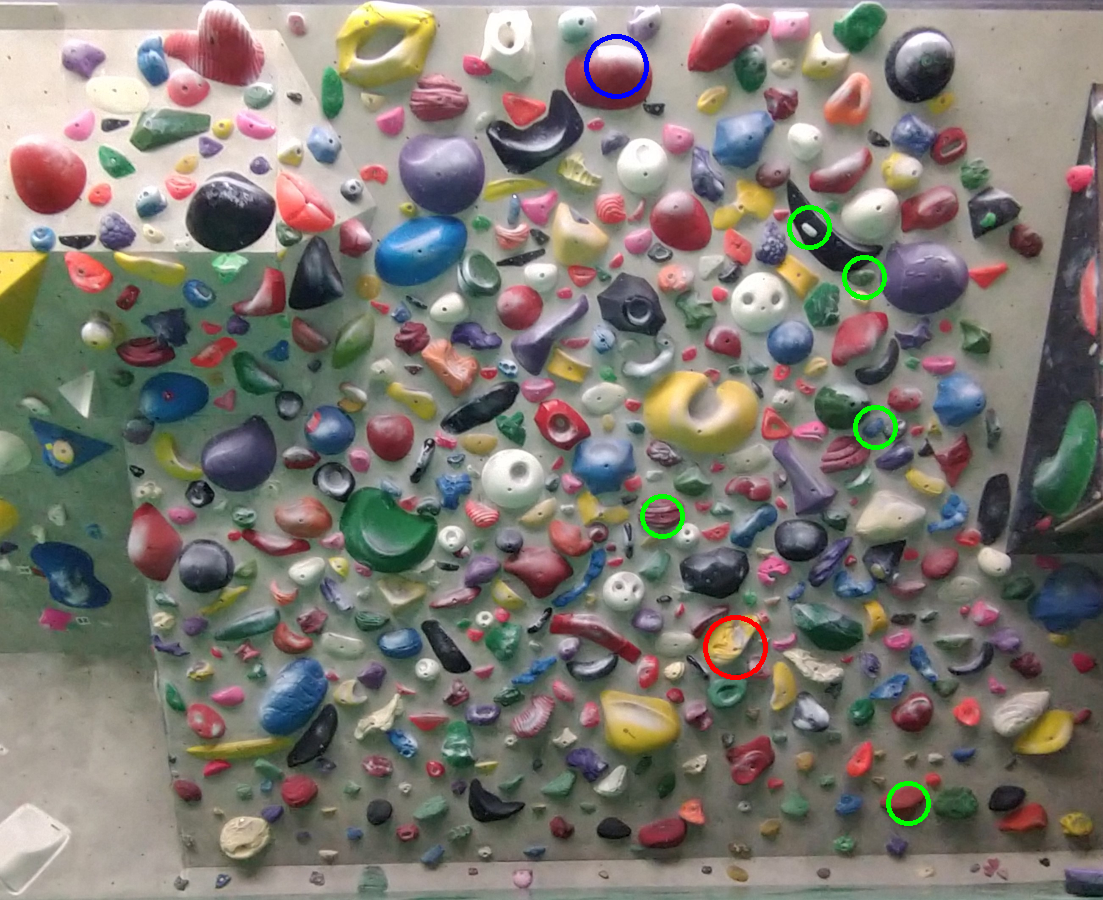
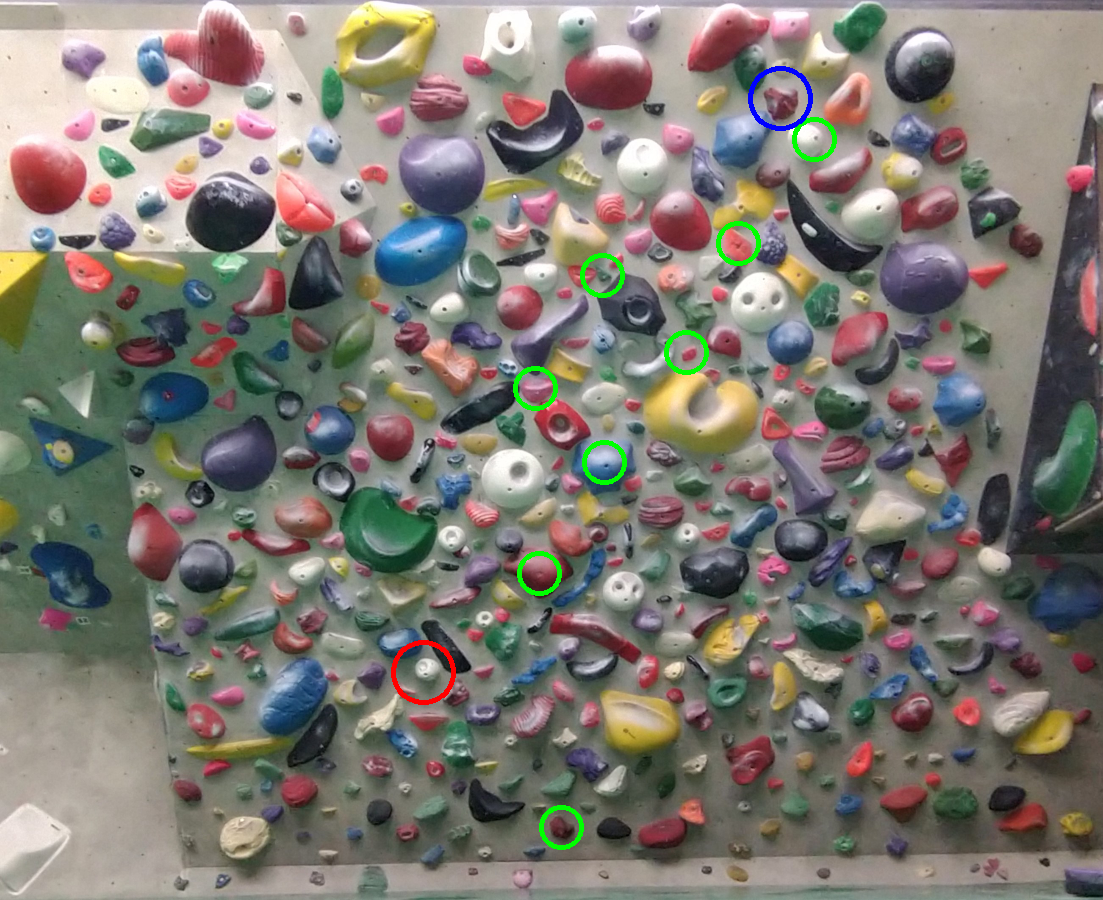
add_easy

diff --git a/app/templates/app/top.html b/app/templates/app/top.html
@@ -11,14 +11,17 @@
   </head>
   <body>
     <h1 class="center">Project maker</h1>
-    <p>※当サイトは利用客である投稿主が個人的に製作したものであり、<br>
-      avue様の運営とは一切関係がありません。
-    </p>
+    <p>※当サイトは利用客である投稿主が個人的に製作したものであり、avue様の運営とは一切関係がありません。</p>
     <br>
     <p><font size="5">
       {% comment %} <a href="http://127.0.0.1:8000/avue">avue spray wall</a> {% endcomment %}
       <a href="https://avue-project-maker.onrender.com/avue">avue spray wall</a>
     </font></p>
+    <p><font size="5">
+      {% comment %} <a href="http://127.0.0.1:8000/avue">avue spray wall</a> {% endcomment %}
+      <a href="https://avue-project-maker.onrender.com/avue_easy">avue spray wall easy</a>
+    </font></p>
+    <br>
     <p><font size="5">
       {% comment %} <a href="http://127.0.0.1:8000/private">private wall</a> {% endcomment %}
       <a href="https://avue-project-maker.onrender.com/private">private wall</a>

diff --git a/app/function_easy.py b/app/function_easy.py
@@ -1,0 +1,110 @@
+#import
+import random
+from pathlib import Path
+import cv2
+import pandas as pd
+from . import param as prm
+
+prj_path = Path(__file__).resolve().parent
+
+#関数宣言
+#ボルトリストの作成 [[num,x,y],[num,x,y],...]
+def make_list(filename,name):
+    list_csv = pd.read_csv(filename,header=None).values.tolist()
+    
+    list_f = []
+    for i in range(prm.MAX_NUM(name)):
+        list_temp = [i]
+        list_temp.append(list_csv[i][0])
+        list_temp.append(list_csv[i][1])
+        list_f.append(list_temp)
+    return list_f
+
+
+#スタート足候補
+def start_foot_list(ret,input_list,name):
+    list_start_foot_f = []
+    for i in range(prm.MAX_NUM(name)):
+        if input_list[i][2] >= ret[0]:
+            list_start_foot_f.append(i)
+    return list_start_foot_f
+
+
+#ルートセット
+def route_set(input_sf,input_list,name):
+    list_route_f = [input_list[input_sf]]
+    reach = prm.REACH(name)
+    ret = prm.Border(name)
+    list_p = []
+    p = 0
+    k = 0
+    j = 0
+    while j <= prm.MAX_NUM(name):
+        j = j+1
+        for i in range(prm.MAX_NUM(name)):
+            h = input_list[i][2]-list_route_f[k][2]
+            if h <= 0:
+                h = h*(-1)
+                r = ((input_list[i][1]-list_route_f[k][1])**2 + h**2)**0.5
+                if r <= reach:
+                    ph = reach*0.3*2 - abs(h-reach*0.3)
+                    pr = reach*0.3*2 - abs(r-reach*0.3)
+                    p = p + ph*pr
+                    list_temp = [i,p]
+                    list_p.append(list_temp)
+        rd = random.random()
+        for l in range(len(list_p)):
+            q = (list_p[l][1])/p
+            if rd < q:      
+                list_route_f.append(input_list[list_p[l][0]])
+                k = k+1
+                p = 0
+                list_p = []
+                break
+        if list_route_f[k][2] <= ret[2]:
+            break
+    return list_route_f
+
+# 関数
+def make(name):
+    list = make_list(prj_path.joinpath('csv/'+name+'/hold_list.csv'),name)
+
+    list_start_foot = start_foot_list(prm.Border(name),list,name)
+
+    sf = random.choice(list_start_foot)
+
+    list_route = route_set(sf,list,name)
+    
+    return list_route    
+
+
+# 描画
+def print_prj(list_route,name):
+    img = cv2.imread(str(prj_path.joinpath('image/'+name+'/input.png')))
+    ret = prm.Border(name)
+
+    h, w, _ = img.shape
+    resize_rate = 900/h
+    wall = cv2.resize(img, (int(w*resize_rate), 900))
+
+    start_flag = 0
+    for i in range(len(list_route)-1):
+        x = list_route[i][1]
+        y = list_route[i][2]
+        if start_flag ==0:
+            if y < ret[1]:
+                cv2.circle(wall, center=(x, y), radius=30, color=(0, 0, 255), thickness=3, lineType=cv2.LINE_4, shift=0)
+                start_flag = 1         
+            else:
+                cv2.circle(wall, center=(x, y), radius=20, color=(0, 255, 0), thickness=3, lineType=cv2.LINE_4, shift=0)
+        else:
+            cv2.circle(wall, center=(x, y), radius=20, color=(0, 255, 0), thickness=3, lineType=cv2.LINE_4, shift=0)
+
+    
+    x = list_route[len(list_route)-1][1]
+    y = list_route[len(list_route)-1][2]
+    cv2.circle(wall, center=(x, y), radius=30, color=(255, 0, 0), thickness=3, lineType=cv2.LINE_4, shift=0)
+        
+    cv2.imwrite(str(prj_path.joinpath('image/'+name+'/output.png')), wall)
+    cv2.imwrite(str(prj_path.joinpath('static/media/'+name+'/output.png')), wall)
+    

diff --git a/app/views.py b/app/views.py
@@ -1,6 +1,7 @@
 from django.views.generic import View
 from django.shortcuts import render
 from. import function
+from. import function_easy
 
 
 class IndexView(View):
@@ -13,6 +14,12 @@ class Project_avue(View):
     def get(self, request, *args, **kwargs):
         list_route = function.make("avue")
         function.print_prj(list_route,"avue")    
+        return render(request, "app/avue.html")
+    
+class Project_avue_easy(View):    
+    def get(self, request, *args, **kwargs):
+        list_route = function_easy.make("avue")
+        function_easy.print_prj(list_route,"avue")    
         return render(request, "app/avue.html")
     
 class Project_private(View):    

diff --git a/app/urls.py b/app/urls.py
@@ -4,5 +4,6 @@ from app import views
 urlpatterns = [
     path("", views.IndexView.as_view(), name="index"),
     path("avue", views.Project_avue.as_view(), name="avue"),
+    path("avue_easy", views.Project_avue_easy.as_view(), name="avue_easy"),
     path("private", views.Project_private.as_view(), name="private"),
 ]
